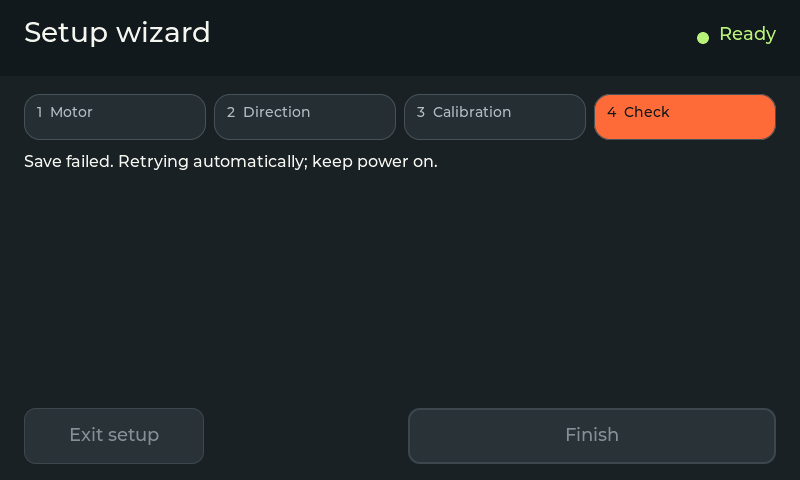
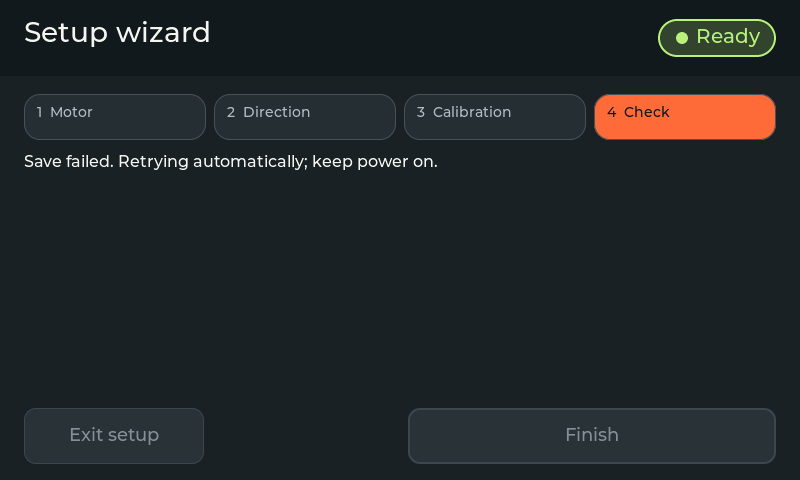
docs: bring the current documentation in line with the reworked screens and fixes
- STATUS: date, the unreleased changes and what the owner confirmed on
  the device on 2026-11-10 (boot, new screens, fault overlay, screen
  saver; motion not re-tested).
- Safety docs: timestamp_within() and why a late stamp counted as stale,
  the LVGL tick halt, and the red/amber fault overlay.
- Program editor: the per-diameter minimum speed, the Available
  switches, and Cancel during a pending save (it does not undo it; the
  doc said Cancel was locked).
- Calibration, setup wizard, builder guide, troubleshooting, wiki:
  new labels, the diameter draft, Back without Save in Display settings.
- Test and simulator READMEs: per-suite counts (20 safety, 52 control),
  new self-test cases, SIMULATOR_DEPENDENCY_ROOT.
- CONTRIBUTING: run pio from PowerShell on Windows, and confirm the chip
  before upload when two Espressif devices are connected.
- INSTRUCTABLES: 23 registered screens, not 22.
- Program, calibration and setup captures regenerated from the simulator.

Changed region(s): [[0.8125, 0.0312, 0.9688, 0.125]]

diff --git a/PROCESS_ANALYSIS.md b/PROCESS_ANALYSIS.md
@@ -43,11 +43,11 @@ Calculated RPM comes from step timing and geometry, not an encoder. Source/direc
 
 GPIO34 expects HIGH healthy / LOW fault. A FALLING ISR writes ENA HIGH and stores pending/wake flags. As a redundant channel, the safety task also polls the pin level every millisecond, so a sustained LOW latches through the same 5 ms confirm path even if the edge never reached the ISR. ISR avoids motor calls, logging, allocation and ordinary flash functions. ENA HIGH disable is a driver/interface assumption that must be verified.
 
-The safety task also supervises task liveness, edge-triggered so each healthy→stale transition latches once: a stale control cycle (FAULT_CONTROL_STALE) or a stale input-task heartbeat (FAULT_INPUT_STALE, armed only after inputTask stamps its first heartbeat) inhibits ENA directly, because the motion-gate stop is consumed by the task that may have hung. The first latched fault reason is retained until RESET; later faults keep ENA inhibited without overwriting the cause. Driver ALM inhibits ENA and latches the fault on the first LOW sample, including a short glitch. Every latched fault disarms the USB mirror; re-arming is local to the touchscreen. A failed GT911 boot initialization (HMI_REQUIRED_FOR_MOTION) or a pending restart after formatting blocks new motion through the same admission gate. At runtime, an LVGL loop stalled for 2 s or 100 failed touch reads in a row stops active motion and latches HMI STALE; at rest, new starts are blocked instead. A pot jump to the rail latches SPEED POT after three samples. A crash, watchdog or brownout restart latches UNEXPECTED RESET at boot, and invalid saved data latches STORAGE with motion disabled.
+The safety task also supervises task liveness, edge-triggered so each healthy→stale transition latches once: a stale control cycle (FAULT_CONTROL_STALE) or a stale input-task heartbeat (FAULT_INPUT_STALE, armed only after inputTask stamps its first heartbeat) inhibits ENA directly, because the motion-gate stop is consumed by the task that may have hung. A heartbeat stamped up to 5 ms after the supervisor read the clock counts as fresh, so a live task is never latched by that race. The first latched fault reason is retained until RESET; later faults keep ENA inhibited without overwriting the cause. Driver ALM inhibits ENA and latches the fault on the first LOW sample, including a short glitch. Every latched fault disarms the USB mirror; re-arming is local to the touchscreen. A failed GT911 boot initialization (HMI_REQUIRED_FOR_MOTION) or a pending restart after formatting blocks new motion through the same admission gate. At runtime, an LVGL loop stalled for 2 s or 100 failed touch reads in a row stops active motion and latches HMI STALE; at rest, new starts are blocked instead. A pot jump to the rail latches SPEED POT after three samples. A crash, watchdog or brownout restart latches UNEXPECTED RESET at boot, and invalid saved data latches STORAGE with motion disabled.
 
 The safety task publishes a latched ESTOP transition; potentially blocking motor cleanup runs in controlTask. Driver-alarm handling disables ENA first. Only the control task performs and retries library cleanup; reset remains blocked until the asynchronous FastAccelStepper queue drains. A brief input glitch also remains faulted until explicit reset.
 
-The overlay displays fault/input state, wakes the backlight and blocks underlying controls. RESET TO IDLE is available only when physical input/alarm/pedal conditions permit it; callback and control processing both guard reset. Reset never starts motion.
+The overlay states the next action and the cause, shows the E-STOP and driver-alarm inputs, wakes the backlight and blocks underlying controls. Its banner is red while reset is blocked and amber when only the reset is missing. RESET TO IDLE is available only when physical input/alarm/pedal conditions permit it; callback and control processing both guard reset. Reset never starts motion.
 
 No ISR-cycle count or physical stop-time guarantee is asserted. Repeated software checks do not make GPIO enable atomic with an interrupt. Verify wiring, cable breaks, driver enable polarity and timing on the assembled machine using the [measurement procedure](docs/estop_timing.md).
 

diff --git a/STATUS.md b/STATUS.md
@@ -1,9 +1,10 @@
 # Project Status
 
-**Last Updated:** 2026-11-04
+**Last Updated:** 2026-11-10
 **Published firmware:** v2.3.1
 **Source:** master - operator feedback and test fixes (released as v2.3.1)
 **Build:** 492 native/control/speed/storage/safety test cases, packaging regressions, Linux/Windows simulator self-tests/layout audits and release/debug/mirror builds. **The owner reported v2.3.0 tested on the assembled machine on 2026-11-04.** TIG HF works on the owner's machine. The owner reported the v2.3.1 build working on the same machine the same day. Stop time and calibration accuracy have not been measured.
+**Unreleased (after v2.3.1):** a heartbeat timestamp race fix, eight screen-logic fixes and the reworked screens, fault overlay and screen saver. The owner flashed this build on 2026-11-10 and confirmed that it boots and that the new screens, the fault overlay and the screen saver display correctly. Motion, pedal and calibration were not re-tested on that build. See the [changelog](CHANGELOG.md).
 
 ---
 
@@ -18,7 +19,7 @@ Runtime stepper calls belong to controlTask; inputTask samples ADC/pedal separat
 - [x] **FastAccelStepper motor control** (hardware RMT pulses, v1.4.0, pinned upstream commit)
 - [x] **FreeRTOS dual-core architecture** (Core 0: Input/Control/Safety, Core 1: UI/Storage)
 - [x] **4 rotation modes:** Continuous, Jog, Pulse, Step, plus a start countdown
-- [x] **RPM adjustment** (live potentiometer input; idle main-screen +/−; Jog and program/edit controls)
+- [x] **RPM adjustment** (live potentiometer input; idle main-screen +/− beside the speed value, 0.001 RPM steps below 0.1 RPM; Jog and program/edit controls)
 - [x] **Thread-safe cross-core speed updates** (atomic + request flag pattern, FreeRTOS mutex for stepper)
 - [x] **`applySpeedAcceleration()`** for immediate speed changes during running
 - [x] **Linear acceleration phase** (resonance-zone traversal)
@@ -32,9 +33,9 @@ Runtime stepper calls belong to controlTask; inputTask samples ADC/pedal separat
 - [x] **Task Watchdog Timer** (input, control and safety tasks; checked setup/feed)
 - [x] **Boot-safe ENA pin** (motor disabled on startup)
 - [x] **CAS state transitions** (race-free between safetyTask and controlTask)
-- [x] **E-STOP UI overlay** (full-screen red, blocks all interaction)
+- [x] **Fault overlay** (full screen, blocks all interaction; states the next action and the cause; red while reset is blocked, amber when only the reset is missing)
 - [x] **UI reset from ESTOP** (via Core 0 pending flag pattern)
-- [x] **Task, UI and touch supervision** (CONTROL STALE, INPUT STALE, HMI STALE)
+- [x] **Task, UI and touch supervision** (CONTROL STALE, INPUT STALE, HMI STALE; a stamp written just after the checker read the clock counts as fresh)
 - [x] **Speed-pot break detection** (SPEED POT after three samples at the rail)
 - [x] **Visible crash and storage faults** (UNEXPECTED RESET, STORAGE)
 - [x] **Per-diameter RPM cap** (`MAX_STEP_HZ`, `MOTOR_RPM_LIMIT`)
@@ -55,7 +56,7 @@ v2.2.0 includes the [idle screen saver](docs/SCREEN_SAVER.md) and [LVGL UI refin
 - [x] **Motor Config** (driver type, microstepping, acceleration, max RPM, roller diameter, gear ratio, stop angle at max RPM, direction switch, pedal enable)
 - [x] **Guided calibration** (non-scrolling stages, same-page diameter, interrupted-move rejection, isolated draft, verification and storage receipt)
 - [x] **About screen** (firmware version, hardware info)
-- [x] **Program Edit** (fixed layout, explicit run/available modes, exact RPM, full-screen input and retained drafts)
+- [x] **Program Edit** (fixed layout, explicit run/available modes, exact RPM within the range for the program's diameter, full-screen input and retained drafts)
 - [x] **Guided setup** (motor, direction, verified calibration and physical E-STOP function check; compatible legacy settings)
 - [x] **Snapshot freshness** (40 ms UI updates, 100 ms stale motion blocking; STOP stays available)
 - [x] **Consistent footer navigation** and back buttons

diff --git a/test/README.md b/test/README.md
@@ -17,9 +17,9 @@ pio test -e native -e native-control -e native-speed -e native-storage -e native
 
 ## Production control and tooling tests
 
-**492 host cases** pass across these environments: `native` 388, `native-control` 52, `native-safety` 20, `native-speed` 18, `native-storage` 11 and `native-control-storage` 3. The `test_device_*` suites add 70 cases that need an ESP32-P4 (`pio test -e esp32p4-test`). `native-safety` compiles the actual safety supervisor with deterministic GPIO/clock and isolated hardware boundaries; its 19 cases cover raw alarm admission, short alarms, pending E-STOP reset rejection, HMI/restart gating, first-fault retention, cleanup/heartbeat reset guards, missed interrupts and stale-task supervision. Control regressions additionally cover driver changes, Step dwell settling, loss of held Jog during enable settling, motor entry guards and retrying failed configuration/acceleration rollback. Storage tests check the motion inhibit before flash erase. CI runs every environment above. It also runs cppcheck: `pio check -e static-analysis --severity=high --severity=medium`.
+**492 host cases** pass across these environments: `native` 388, `native-control` 52, `native-safety` 20, `native-speed` 18, `native-storage` 11 and `native-control-storage` 3. The `test_device_*` suites add 70 cases that need an ESP32-P4 (`pio test -e esp32p4-test`). `native-safety` compiles the actual safety supervisor with deterministic GPIO/clock and isolated hardware boundaries; its 20 cases cover raw alarm admission, a heartbeat stamped after the clock was read, short alarms, pending E-STOP reset rejection, HMI/restart gating, first-fault retention, cleanup/heartbeat reset guards, missed interrupts and stale-task supervision. Control regressions additionally cover driver changes, Step dwell settling, loss of held Jog during enable settling, motor entry guards and retrying failed configuration/acceleration rollback. Storage tests check the motion inhibit before flash erase. CI runs every environment above. It also runs cppcheck: `pio check -e static-analysis --severity=high --severity=medium`.
 
-`test_control_production/` compiles the actual firmware dispatcher, motor wrapper, event log and all four motion modes with a fake clock, driver and FreeRTOS adapters. Its 51 cases cover command rejection, held locks, STOP cancellation/deadlines, pulse phases, counter wrap, mode timing, log contention, coherent concurrent snapshot reads, stale admission, direction inversion and setup sequence/migration rules, calibration draft isolation, interrupted moves, context changes, correction bounds and strict measurement parsing. These are host integration tests, not device timing measurements.
+`test_control_production/` compiles the actual firmware dispatcher, motor wrapper, event log and all four motion modes with a fake clock, driver and FreeRTOS adapters. Its 52 cases cover command rejection, a Jog lease renewed after the clock was read, held locks, STOP cancellation/deadlines, pulse phases, counter wrap, mode timing, log contention, coherent concurrent snapshot reads, stale admission, direction inversion and setup sequence/migration rules, calibration draft isolation, interrupted moves, context changes, correction bounds and strict measurement parsing. These are host integration tests, not device timing measurements.
 
 The added migration cases check explicit RMT selection, asynchronous force-stop drain/reset inhibition and rejection of direction-timing changes while pulses remain queued. `python scripts/test_fas_rmt.py` compiles the installed upstream 1.4.0 RMT encoder and runs its `test_30` host regression for both buffer geometries; CI runs this on Linux and Windows. It does not measure physical GPIO pulses.
 

diff --git a/docs/PROGRAM_EDITOR.md b/docs/PROGRAM_EDITOR.md
@@ -7,7 +7,7 @@ The editor uses the existing V5 palette at 800×480, with no page scrolling. The
 1. **Open** <kbd>Programs</kbd> › <kbd>+ New</kbd>, or edit an existing slot with <kbd>Edit</kbd>.
 2. **Name** it: the top field opens the name keyboard.
 3. **Pick** the mode with <kbd>Run mode</kbd>: Continuous, Pulse or Step. Selecting the same mode again leaves it selected.
-4. **Choose** other modes with <kbd>Available</kbd>. They are offered for this preset. The active run mode is always included.
+4. **Choose** other modes with the <kbd>Available in this program</kbd> switches under the run mode. They are offered for this preset. The active run mode is always included.
 
 <table>
 <tr>
@@ -36,7 +36,7 @@ Tap the name, edit it, and use the keyboard's confirm key or the visible <kbd>Ca
 </tr>
 </table>
 
-Tap the RPM value to enter exact speed. Dot and comma decimal separators are accepted. The whole entry must be numeric and within `MIN_RPM` and the maximum for this program's diameter. Invalid input leaves the editor open and preserves the draft.
+Tap the RPM value to enter exact speed. Dot and comma decimal separators are accepted. The whole entry must be numeric and within the minimum and maximum for this program's diameter. The minimum is the slowest rate the motor can run at that diameter (`START_SPEED`), never below `MIN_RPM`. Invalid input leaves the editor open and preserves the draft.
 
 | Setting | Value |
 |---|---|
@@ -44,11 +44,12 @@ Tap the RPM value to enter exact speed. Dot and comma decimal separators are acc
 | Summary and mode-settings +/− step otherwise | **0.01 RPM** |
 | Display precision | Follows the same rule |
 | Maximum | Lower of the Max RPM setting and the per-diameter cap from `MAX_STEP_HZ` and `MOTOR_RPM_LIMIT` |
+| Minimum | The per-diameter floor from `START_SPEED`. A smaller diameter or coarser microstepping raises it |
 
-A larger diameter in the Step editor lowers RPM visibly.
+A larger diameter in the Step editor lowers RPM visibly, and a smaller one raises it to the minimum.
 
 > [!WARNING]
-> A saved program above the cap is blocked at start. If a start is blocked after you confirm it, <kbd>PROGRAM BLOCKED</kbd> shows the reason and returns to the list.
+> A saved program outside the range is blocked at start. This can happen when Max RPM, the calibration or the microstepping changed after it was saved. If a start is blocked after you confirm it, <kbd>PROGRAM BLOCKED</kbd> shows the reason and returns to the list.
 
 ![Invalid RPM](images/program_v2/04_rpm_validation.png)
 
@@ -60,7 +61,7 @@ A larger diameter in the Step editor lowers RPM visibly.
 4. **Wait** for the matching successful storage receipt. The button shows <kbd>Saving...</kbd> or <kbd>Save failed, retrying</kbd>, then the editor returns to Programs.
 
 > [!IMPORTANT]
-> Edits and Cancel stay locked while the write is pending.
+> Edits stay locked while the write is pending. <kbd>Cancel</kbd> still leaves the editor, but it does not undo the save: the program is already in the list.
 
 Before saving, <kbd>Cancel</kbd> discards the editor draft. Existing slots additionally offer <kbd>Delete</kbd> with confirmation.
 

diff --git a/docs/SAFETY_SYSTEM.md b/docs/SAFETY_SYSTEM.md
@@ -31,7 +31,7 @@ The system transitions through a rigorous state machine (defined in `control.h`)
 - **Scheduled state transition:** `safetyTask` (priority 5) checks the pending flag with debounce, stores `g_estopTriggerMs` on the debounced edge, and transitions to STATE_ESTOP via CAS.
 - **Final motion-start guard:** continuous/jog/step start paths check E-STOP/driver ALM before enabling ENA and again immediately after ENA is pulled LOW. If the input becomes unsafe in that final window, ENA is driven HIGH again before any run/move command.
 - **Boot-time sampling:** `safety_init()` samples `PIN_ESTOP` 3× with 500 µs spacing after `INPUT_PULLUP` + 2 ms settle; requires ≥2/3 LOW to treat ESTOP as pressed. startup sampling does not verify wiring continuity, so this mitigates false ESTOPs from a floating line at power-on.
-- **UI Overlay:** `lvglTask` detects STATE_ESTOP and shows full-screen red overlay on any active screen.
+- **UI Overlay:** `lvglTask` detects STATE_ESTOP and shows the full-screen fault overlay on any active screen. It states the next action first and the cause below it. The banner is red while something blocks the reset and amber with **READY TO RESET** when only the reset is missing.
 - **ESTOP Reset:** UI sets `g_uiResetPending.store(true, std::memory_order_release)`. `controlTask` on Core 0 calls `safety_check_ui_reset()` and transitions to STATE_IDLE. Overlay auto-hides.
 - **Single source of truth:** `g_estopPending`, `g_estopTriggerMs`, `g_uiResetPending`, `g_wakePending` are declared in `src/app_state.h` / defined in `src/app_state.cpp` (all `std::atomic` with explicit memory ordering).
 
@@ -80,6 +80,10 @@ The scheduled E-STOP level poll inhibits ENA on the first observed LOW, then use
 ## 7. Runtime supervision
 
 `safetyTask` writes ENA HIGH directly for stale tasks, because a stop request would wait on the task that hung. The first latched reason is kept until reset. Every latched fault disarms the USB mirror.
+
+Freshness checks compare a timestamp written by one task with the clock read by another. A task can stamp just after the checker read the clock, so the stamp is a millisecond ahead. `timestamp_within()` treats a stamp up to 5 ms ahead as fresh. Without that, unsigned subtraction read it as 49 days old and a live task could be latched as stale. The input and UI heartbeats, the ADS1115 pedal sample and the Jog lease use it.
+
+Boot halts with ENA inhibited when the LVGL tick timer cannot start, because the UI heartbeat would keep running without touch input.
 
 | Condition | Response |
 | --- | --- |

diff --git a/docs/BUILDER_GUIDE.md b/docs/BUILDER_GUIDE.md
@@ -182,12 +182,12 @@ Details: [Setup Wizard](SETUP_WIZARD.md) · [Calibration workflow](CALIBRATION_W
 2. **Check** that the main screen appears, touch responds and E-STOP is released.
 3. **Match** driver current and microstep DIP switches to <kbd>Settings</kbd> › <kbd>Motor configuration</kbd>.
 4. **Switch on** the motor supply after STEP/DIR/ENA and E-STOP wiring are checked.
-5. **Set** RPM with the main pot or the idle-screen <kbd>+</kbd> / <kbd>−</kbd>, then press <kbd>Start</kbd>.
+5. **Set** RPM with the main pot or <kbd>+</kbd> / <kbd>−</kbd> beside the speed value, then press <kbd>Start</kbd>.
 6. **Pick a mode** from <kbd>Menu</kbd> › <kbd>Run modes</kbd>: Jog, Pulse, Step or Countdown.
 7. **Hit** E-STOP first when motion looks unsafe.
 
 > [!NOTE]
-> Speed and direction changes are blocked during motion. The physical direction switch keeps priority when enabled. The red fault overlay resets only after the physical fault is cleared, and reset never starts rotation.
+> Speed and direction changes are blocked during motion. The physical direction switch keeps priority when enabled. The fault overlay says what to do next. It resets only after the fault is cleared, when its banner turns from red to amber, and reset never starts rotation.
 
 <table>
 <tr>
@@ -197,6 +197,7 @@ Details: [Setup Wizard](SETUP_WIZARD.md) · [Calibration workflow](CALIBRATION_W
 </table>
 
 - **Program editor:** <kbd>Programs</kbd> › <kbd>+ New</kbd>. See [Program editor](PROGRAM_EDITOR.md). Up to 16 programs.
+- **Display settings:** brightness, appearance and accent are previewed at once. <kbd>Save</kbd> keeps them; <kbd>Back</kbd> without Save restores the saved values.
 - **Screen saver:** <kbd>Settings</kbd> › <kbd>Display settings</kbd> › <kbd>Screen saver after</kbd>. See [Screen saver](SCREEN_SAVER.md).
 - **USB-C live mirror:** flash `esp32p4-mirror`, then arm <kbd>Settings</kbd> › <kbd>Display settings</kbd> › <kbd>USB remote control</kbd> on the device. E-STOP and driver faults still override all UI input. See the [simulator README](../simulator/README.md#usb-c-live-mirror).
 

diff --git a/simulator/README.md b/simulator/README.md
@@ -25,7 +25,7 @@ The script configures CMake, builds `rotator_simulator.exe`, then starts the
 
 This creates every LVGL screen, runs update loops, clicks key navigation and
 machine-control UI buttons against fake simulator state, and exits non-zero on
-failure. The tests include main-screen RPM +/− and both blocked and available fault-reset states. Firmware and simulator share the V5 theme and numeric font.
+failure. The tests include main-screen RPM +/−, both blocked and available fault-reset states, Back without Save in Display settings, the calibration diameter draft and the program speed floor. Firmware and simulator share the V5 theme and numeric font.
 
 ## Screen Screenshot Dump
 
@@ -88,7 +88,7 @@ The simulator uses LVGL **9.6.0** with an explicit SDL software renderer. Window
 
 - CMake
 - Ninja
-- MSYS2 MinGW toolchain with SDL2, expected at `C:\msys64\mingw64`
+- MSYS2 MinGW toolchain with SDL2, expected at `C:\msys64\mingw64`. For SDL2 in another place, configure with `-DSIMULATOR_DEPENDENCY_ROOT=<directory with include, lib and bin>`
 - PlatformIO dependencies already installed, especially LVGL under `.pio/libdeps`
 
 If LVGL is missing, run the firmware build once first:

diff --git a/CONTRIBUTING.md b/CONTRIBUTING.md
@@ -37,7 +37,7 @@ python -m unittest discover -s test/tooling
 pio check -e static-analysis --severity=high --severity=medium
 ```
 
-Windows PowerShell: set `$env:PYTHONUTF8='1'` before upload if the terminal uses a legacy encoding. Detect the port with `pio device list`, then pass `--upload-port COM3` (example).
+Windows: run `pio` from PowerShell. In Git Bash the final image step can fail with `MSys/Mingw is not supported`, although compiling and linking succeed. Set `$env:PYTHONUTF8='1'` before upload if the terminal uses a legacy encoding. Detect the port with `pio device list`, then pass `--upload-port COM3` (example). Every Espressif USB device reports `VID:PID 303A:1001`, so with more than one connected, confirm the chip first with `python -m esptool --port COM3 flash-id` (ESP32-P4, 16MB).
 
 Run the actual LVGL simulator with `.\simulator\run.ps1 -SelfTest`. CI runs cppcheck, the six native environments, packaging tests, all three firmware variants and the simulator self-test and layout audit on Linux and Windows. Device tests require an isolated bench with motor power controlled; see [test/README.md](test/README.md).
 

diff --git a/wiki/Architecture.md b/wiki/Architecture.md
@@ -130,7 +130,7 @@ Preset vector access protected by `g_presets_mutex` semaphore. Copy-based API: `
 Layered ESTOP and fault architecture:
 1. **ISR layer (latency unmeasured):** GPIO 34 interrupt sets ENA HIGH via direct register write + sets `g_estopPending.store(true, std::memory_order_release)` + `g_wakePending.store(true, ...)` (NO function calls — flash may be disabled during NVS writes)
 2. **Task layer:** `safetyTask` debounces and transitions to STATE_ESTOP; stores `g_estopTriggerMs` on the debounced fault edge
-3. **UI layer:** `lvglTask` shows/hides red overlay based on current state
+3. **UI layer:** `lvglTask` shows/hides the fault overlay based on current state. The overlay is red while reset is blocked and amber when ready to reset
 4. **Reset:** UI sets `g_uiResetPending.store(true, ...)`, Core 0 processes via `controlTask`
 5. **Boot sampling:** `safety_init()` takes 3 samples of `PIN_ESTOP` with 500 µs spacing after `INPUT_PULLUP` + 2 ms settle, requires ≥2/3 LOW before treating ESTOP as pressed (startup sampling does not verify wiring continuity)
 

diff --git a/docs/SETUP_WIZARD.md b/docs/SETUP_WIZARD.md
@@ -48,8 +48,8 @@ Navigation never initiates a calibration movement.
 
 ## 4. Function check
 
-1. **Press** the physical E-STOP switch. The fault overlay blocks operation.
-2. **Release** the switch and inspect the machine.
+1. **Press** the physical E-STOP switch. The red fault overlay blocks operation and reads <kbd>Release the E-STOP button.</kbd>
+2. **Release** the switch and inspect the machine. The banner turns amber and reads <kbd>READY TO RESET</kbd>.
 3. **Select** <kbd>RESET TO IDLE</kbd>. Reset does not start movement.
 4. **Select** <kbd>Test start</kbd> explicitly and observe rotation.
 5. **Select** <kbd>Stop</kbd>.

diff --git a/docs/CALIBRATION_WORKFLOW.md b/docs/CALIBRATION_WORKFLOW.md
@@ -8,7 +8,7 @@ The calibration workflow is included in v2.1.1 firmware and simulator. These cur
 ## Align
 
 1. **Open** <kbd>Settings</kbd> › <kbd>Calibration</kbd>.
-2. **Set** the outside diameter directly on this page.
+2. **Set** the outside diameter in the <kbd>Workpiece diameter</kbd> field on this page. It is part of the draft: leaving without saving restores the saved diameter.
 3. **Match** the drive's microstep switches to Motor Config beforehand.
 4. **Jog** with hold-to-run <kbd>Jog CCW</kbd> / <kbd>Jog CW</kbd> until a clear reference mark is aligned.
 5. **Select** <kbd>Move 360°</kbd>.

diff --git a/wiki/Troubleshooting.md b/wiki/Troubleshooting.md
@@ -84,7 +84,7 @@
 
 ### Fault names
 
-The red overlay names the first latched fault. Clear the cause, then press <kbd>RESET TO IDLE</kbd>, unless the table says to restart. Reset never starts motion.
+The overlay names the first latched fault, states the next action under **What to do** and gives the cause below it. The banner is red while something blocks the reset and amber with **READY TO RESET** when only the reset is missing. Clear the cause, then press <kbd>RESET TO IDLE</kbd>, unless the table says to restart. Reset never starts motion.
 
 | Fault | Meaning | What to do |
 |---|---|---|
